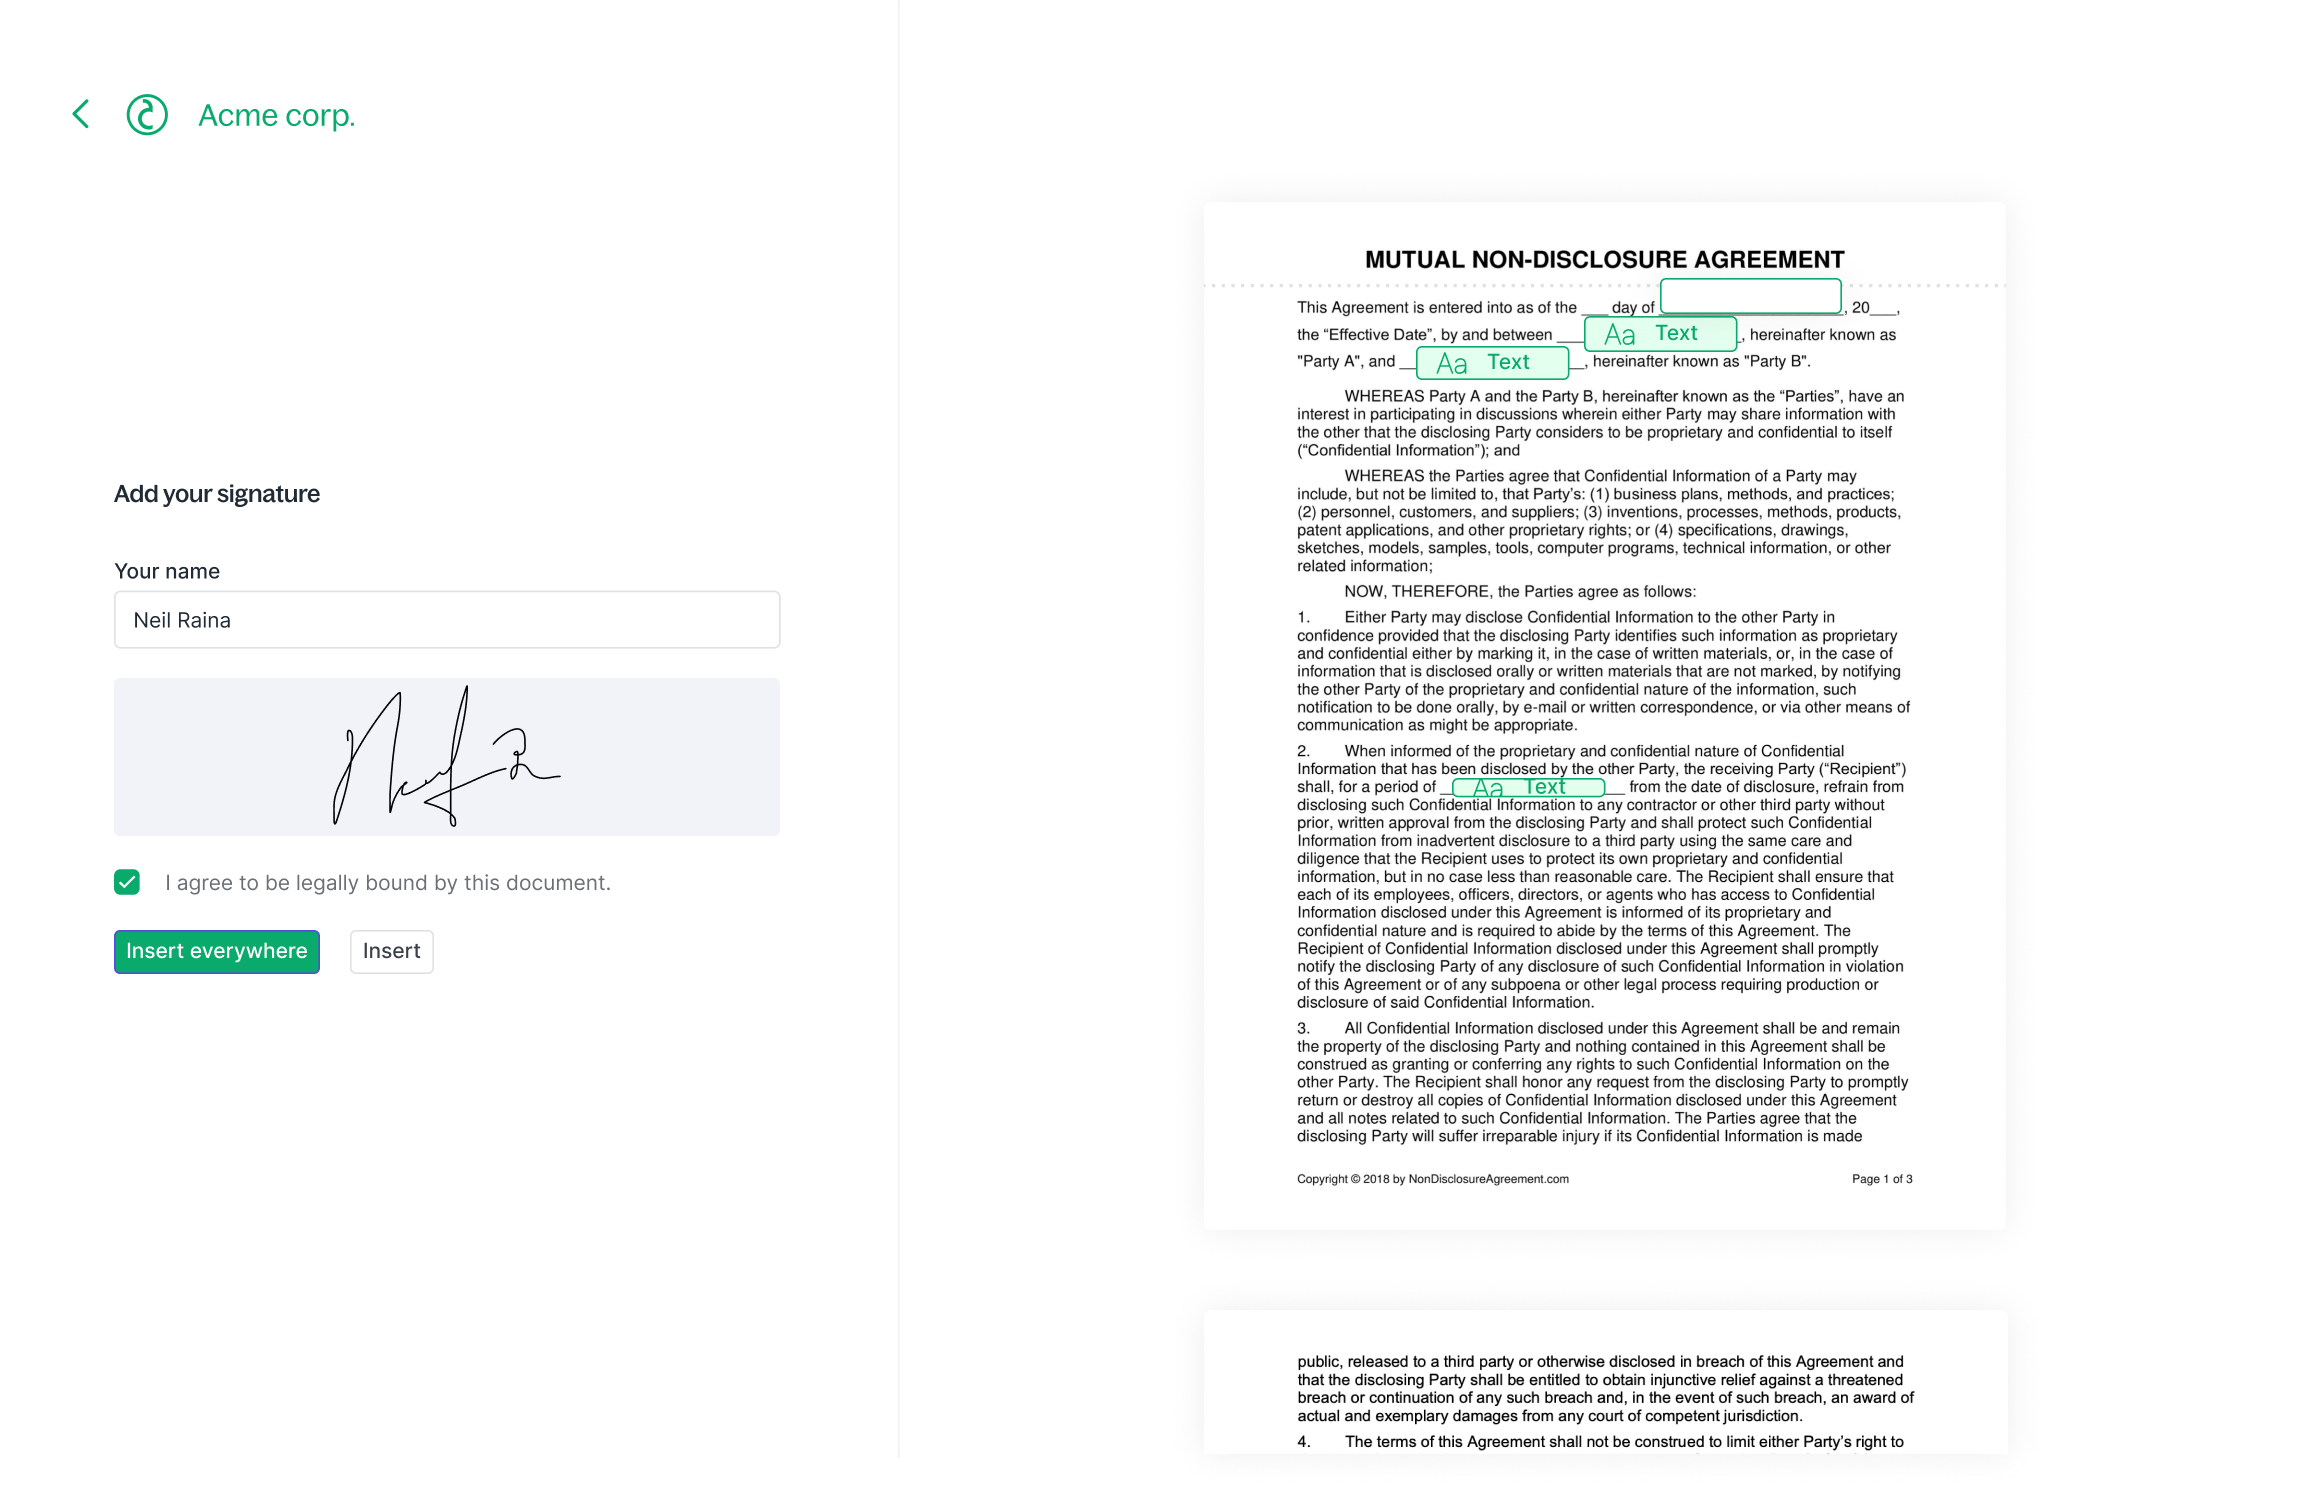
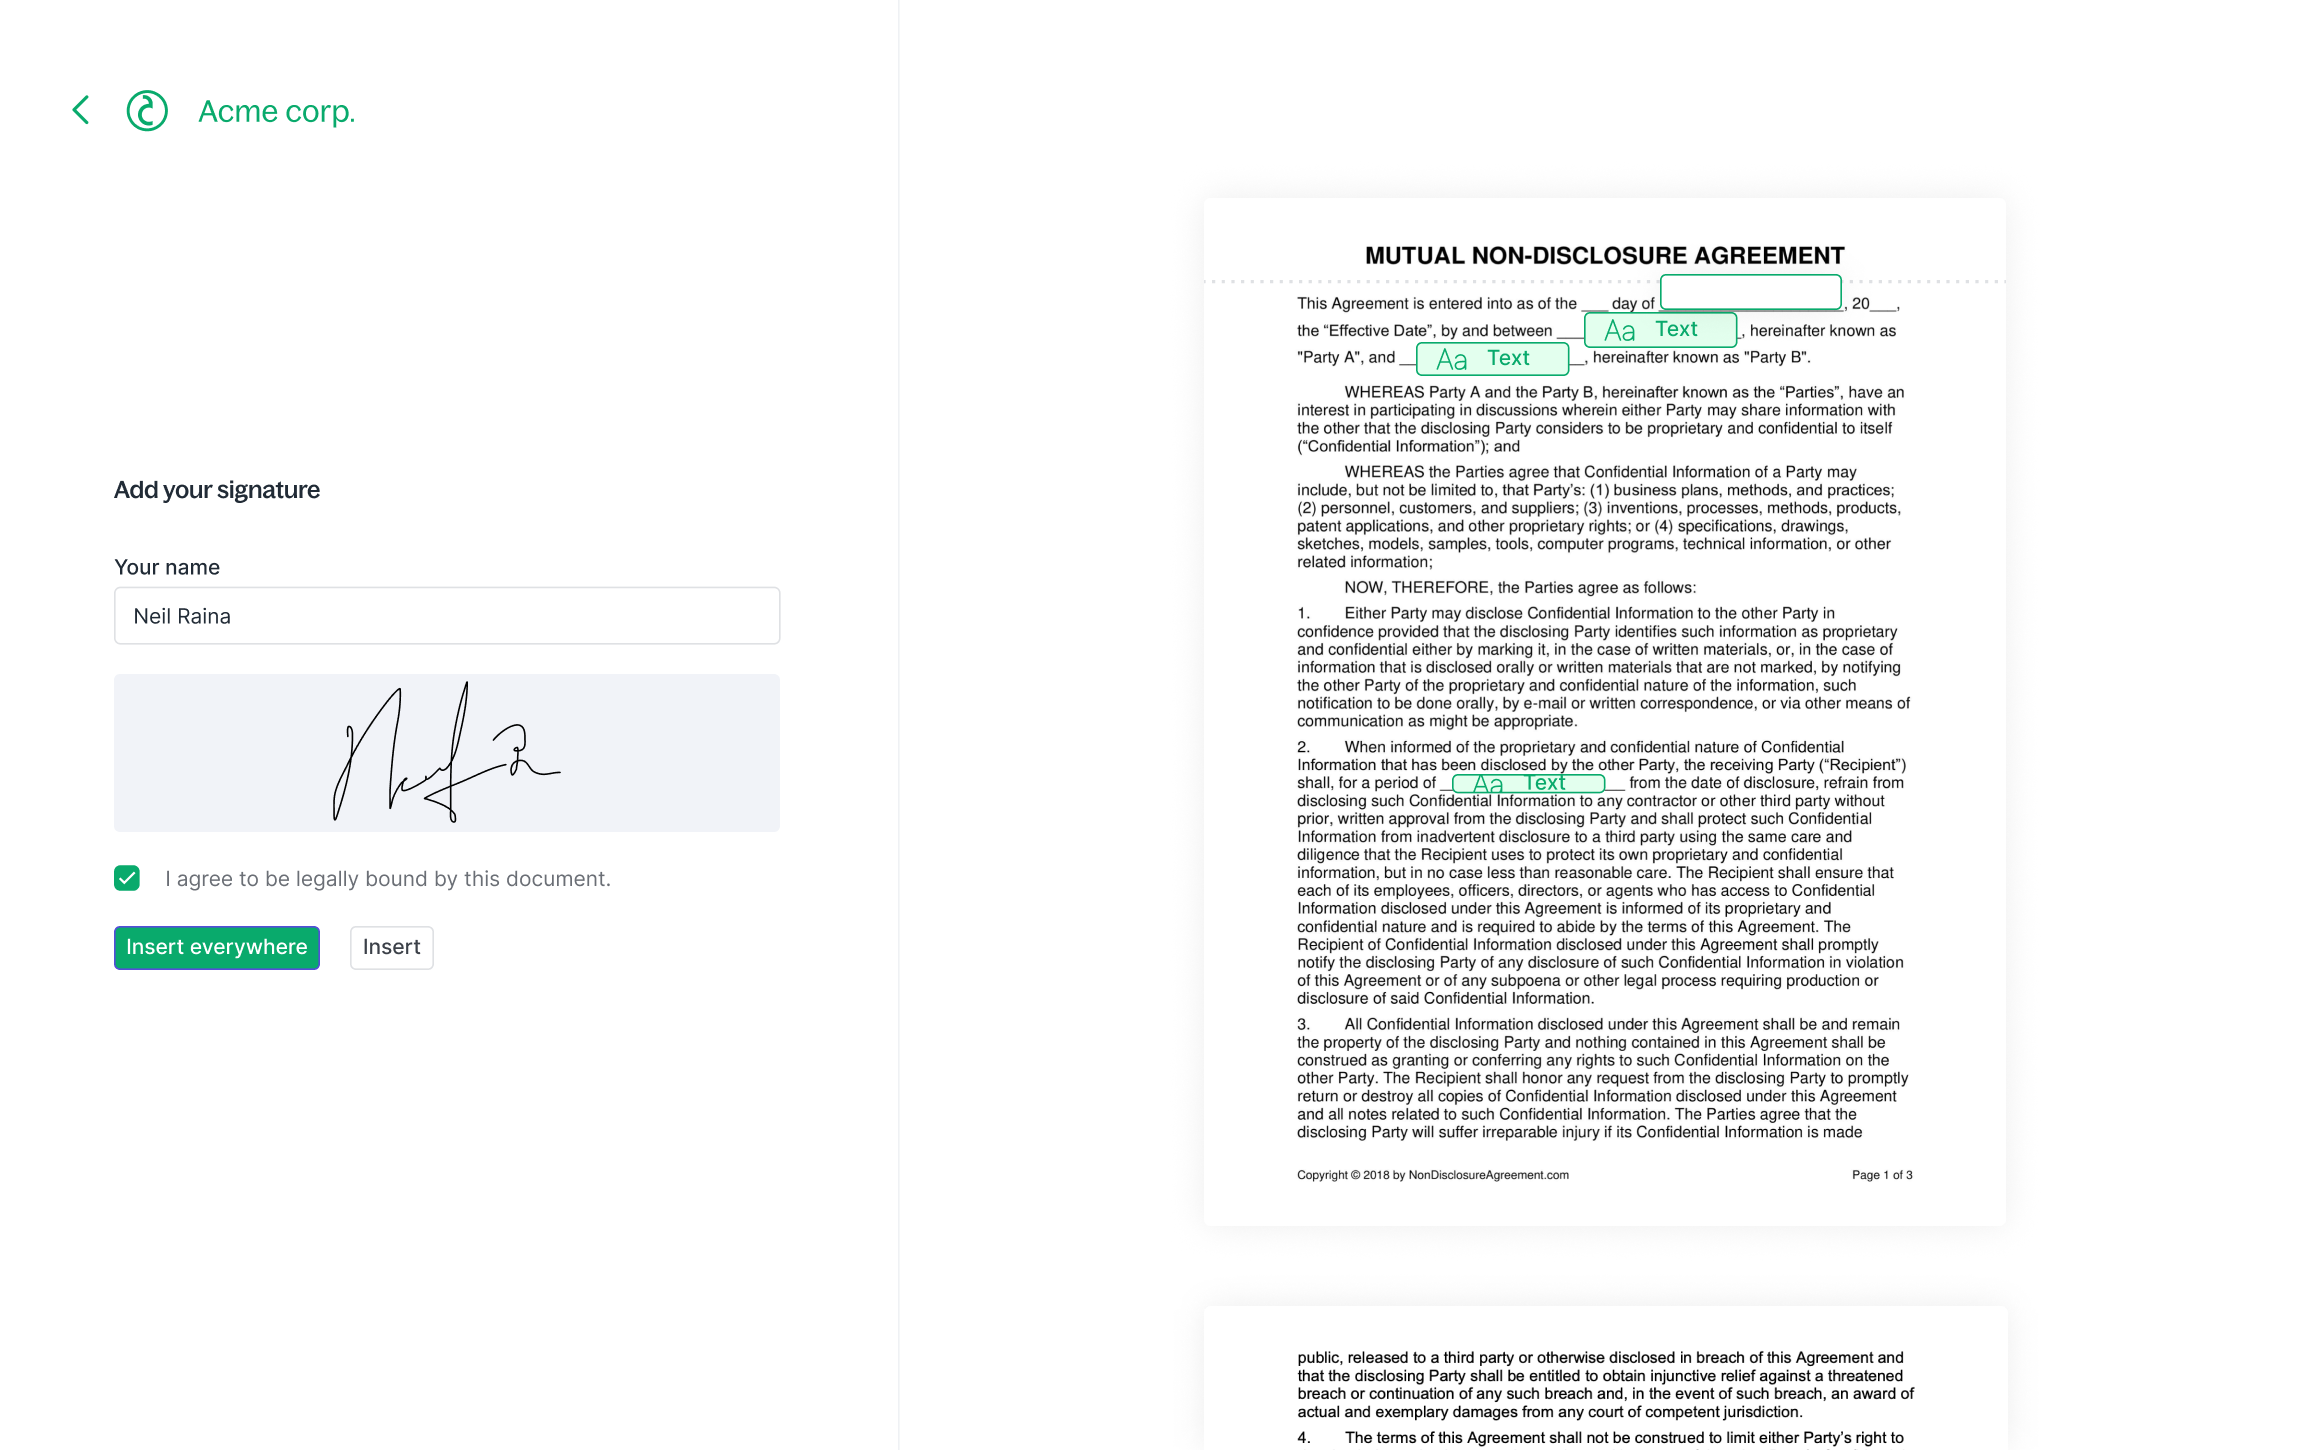
Brand Page Feedback

diff --git a/pages/jobs/index.js b/pages/jobs/index.js
@@ -55,22 +55,28 @@ export default function Jobs({ jobList, jobImagesList, jobBlogPostList }) {
   const renderJobsListingView = useCallback((list) => {
     if (isEmpty(list)) return null;
     return list?.map((item, index) => {
-      return <Link href={`/jobs/${item?.slug}`} key={`joblist_index_${index}`}>
-        <RoleRow >
-          <LeftRow>
-            <p>{item?.name}</p>
-          </LeftRow>
-          <RightRow>
-            {item?.isRemote && <p>Remote</p>}
-            {(!isEmpty(item?.location)) && item?.isRemote ? <><Dot className="bgdot"></Dot>
-              <p>{item?.location}</p></> : <p>{item?.location}</p>}
-          </RightRow>
-        </RoleRow>
-      </Link>
-    })
-  }, [])
-
-
+      return (
+        <Link href={`/jobs/${item?.slug}`} key={`joblist_index_${index}`}>
+          <RoleRow>
+            <LeftRow>
+              <p>{item?.name}</p>
+            </LeftRow>
+            <RightRow>
+              {item?.isRemote && <p>Remote</p>}
+              {!isEmpty(item?.location) && item?.isRemote ? (
+                <>
+                  <Dot className="bgdot"></Dot>
+                  <p>{item?.location}</p>
+                </>
+              ) : (
+                <p>{item?.location}</p>
+              )}
+            </RightRow>
+          </RoleRow>
+        </Link>
+      );
+    });
+  }, []);
 
   const renderJobsRolesListView = useMemo(() => {
     if (isEmpty(jobList)) return null;

diff --git a/pages/brands/index.js b/pages/brands/index.js
@@ -49,7 +49,7 @@ export default function Brand() {
                 “C”, lowercase “p”, and without a dash. It is the brand name of
                 our company and product. The company legal name is Copilot
                 Platforms Inc. On social media, you can refer to us with
-                #copilot.{" "}
+                #copilot.
               </p>
             </BrandName>
             <BrandName>
@@ -62,9 +62,9 @@ export default function Brand() {
               <BrandImage>
                 <BrandImageLeft className="effect-goliath">
                   <Image
-                    src="/images/smalllogo.svg"
+                    src="/images/logo.svg"
                     alt="logo"
-                    width={133}
+                    width={405}
                     height={90}
                     layout={"fixed"}
                   />
@@ -180,8 +180,8 @@ export default function Brand() {
                   <Image
                     src="/images/primarylogo2.svg"
                     alt="logo"
-                    width={186}
-                    height={186}
+                    width={200}
+                    height={200}
                     layout={"fixed"}
                   />
                   <HoverLink className="hover-name">

diff --git a/styles/jobsStyles.js b/styles/jobsStyles.js
@@ -56,13 +56,17 @@ const CareerSection = styled.div`
   padding: 50px 0;
 `;
 const CareerBlock = styled.div`
-  display: grid;
-  grid-template-columns: 1fr 1fr;
+  display: flex;
   gap: 60px;
 `;
-const RoleBlock = styled.div``;
+const RoleBlock = styled.div`
+  max-width: 612px;
+  width: 100%;
+`;
 const TeamBlock = styled.div`
-  padding-left: 30px;
+  /* padding-left: 30px; */
+  max-width: 552px;
+  width: 100%;
 `;
 const RoleWrap = styled.div`
   margin-bottom: 40px;
@@ -220,11 +224,11 @@ const TabWrap = styled.div`
     position: relative;
     span {
       ${Body6};
-      color: ${({ theme }) => theme.colors.body};
+      color: ${({ theme }) => theme.colors.black};
     }
     border: 1px solid #000000;
-    width: 38px;
-    height: 38px;
+    width: 40px;
+    height: 40px;
     border-radius: 50%;
     display: flex;
     align-items: center;
@@ -239,8 +243,8 @@ const TabView = styled.div`
     color: ${({ theme }) => theme.colors.border};
   }
   border: 1px solid #ccccd0;
-  width: 38px;
-  height: 38px;
+  width: 40px;
+  height: 40px;
   border-radius: 50%;
   display: flex;
   align-items: center;

diff --git a/components/solution/clienttab/exploretab.js b/components/solution/clienttab/exploretab.js
@@ -86,7 +86,7 @@ export default function ExploreTab() {
                   src="/images/esignature.png"
                   alt="main-logo"
                   width={1154}
-                  height={754}
+                  height={725}
                 />
               </SignImgView>
             </SignBox>

diff --git a/components/solution/clienttab/styles.js b/components/solution/clienttab/styles.js
@@ -118,6 +118,10 @@ const SignImgView = styled.div`
   background: #ffffff;
   position: relative;
   border-radius: 6px;
+  img {
+    max-height: 725px;
+    height: 100%;
+  }
 `;
 const ActiveTab = styled.div`
   position: absolute;

diff --git a/styles/brandStyles.js b/styles/brandStyles.js
@@ -192,7 +192,8 @@ const BlockSub = styled.div`
   }
   span {
     color: ${({ theme }) => theme.colors.greenlight};
-    ${Body2}
+    ${Body2};
+    letter-spacing: 0;
   }
 `;
 const BlockLight = styled.div`
